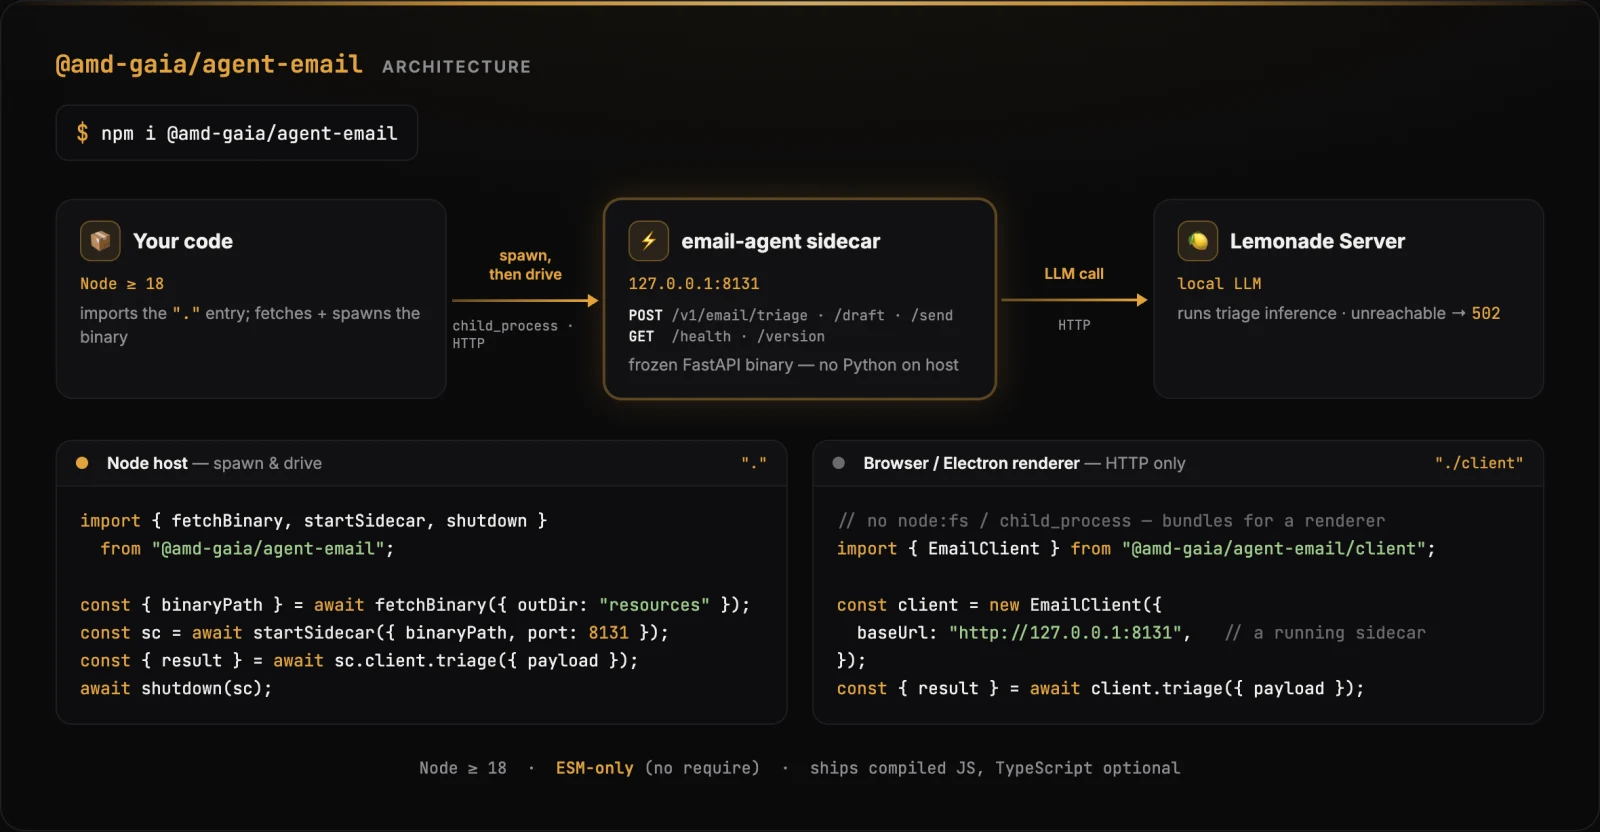
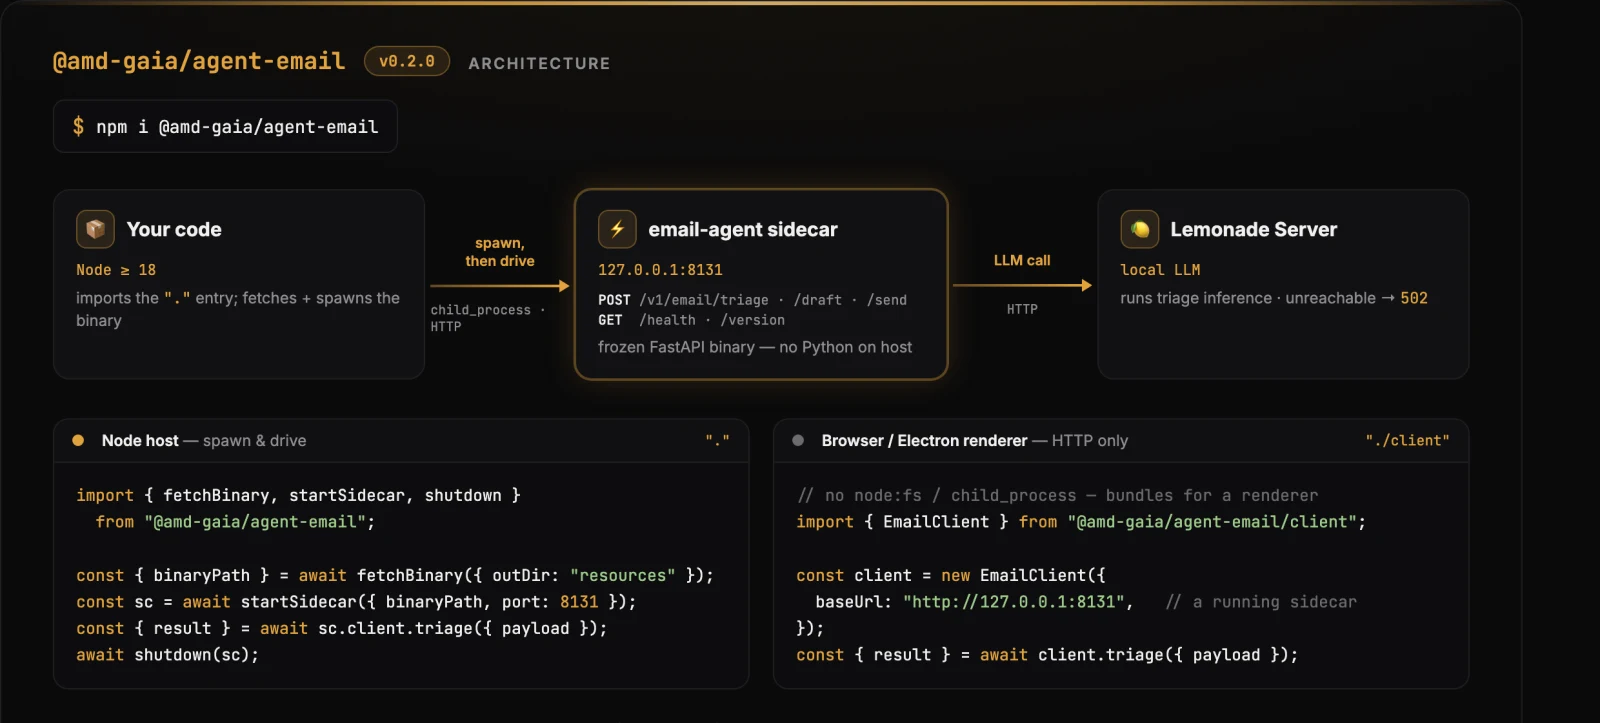
docs(agent-email): stamp architecture diagram with v0.2.0 + serve it from the hub
The README is the package's published doc (npm + PyPI), so it shouldn't
hotlink raw.githubusercontent (not a CDN; goes stale against main). Serve
the diagram from the versioned hub artifact path
(hub.amd-gaia.ai/agents/email/0.2.0/architecture.webp) — same origin as
the binaries — and add a v0.2.0 badge so the image can't drift from the
release it documents.

diff --git a/hub/agents/npm/agent-email/README.md b/hub/agents/npm/agent-email/README.md
@@ -15,7 +15,7 @@ and helpers to spawn / health-check / version-check / shut down the sidecar.
 
 ## How it fits together
 
-![@amd-gaia/agent-email architecture — your Node code spawns and drives a frozen email-agent sidecar (127.0.0.1:8131) over HTTP, which runs triage inference on a local Lemonade Server; a browser/Electron renderer drives the same sidecar over HTTP via the ./client entry.](https://raw.githubusercontent.com/amd/gaia/main/hub/agents/npm/agent-email/assets/architecture.webp)
+![@amd-gaia/agent-email architecture — your Node code spawns and drives a frozen email-agent sidecar (127.0.0.1:8131) over HTTP, which runs triage inference on a local Lemonade Server; a browser/Electron renderer drives the same sidecar over HTTP via the ./client entry.](https://hub.amd-gaia.ai/agents/email/0.2.0/architecture.webp)
 
 Three tiers, all on the user's machine — no cloud, and **no separate GAIA
 install**: